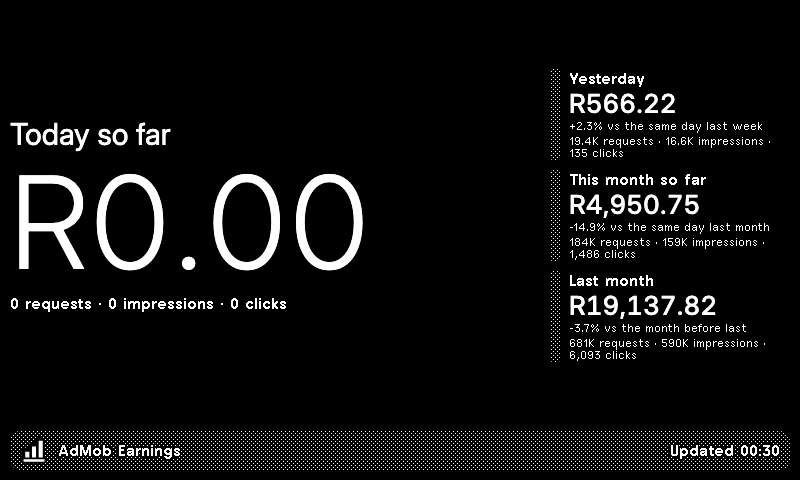
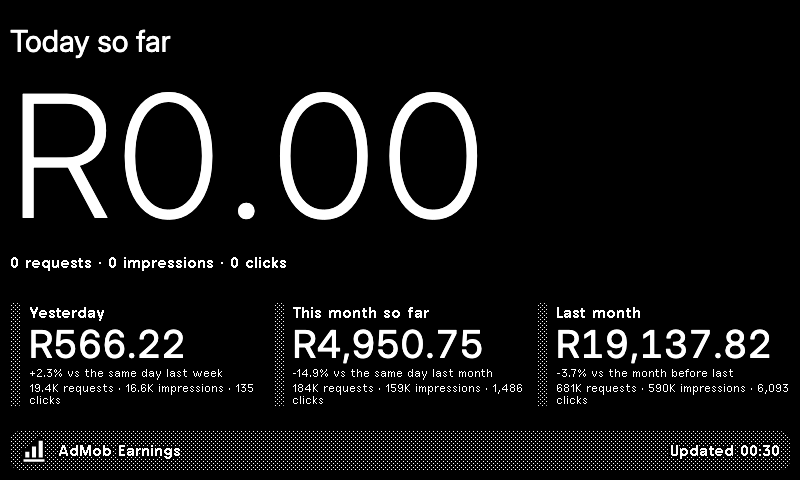
Put the AdMob primary figure across the top with three tiles beneath it
On the full view the large today figure now spans the screen with yesterday,
this month so far and last month in a row underneath, which suits the TRMNL X's
taller screen and gives the secondary tiles room for their metrics. Also record
that AdMob rejects an accounts/- wildcard, so the account picker stays.

diff --git a/apps/admob-earnings/test/transform.test.js b/apps/admob-earnings/test/transform.test.js
@@ -197,6 +197,8 @@ test('maps API errors and missing input to recovery states', () => {
   assert.equal(run({ error: { code: 500, status: 'INTERNAL' } }, at).status, 'error');
   assert.equal(run({ error: { code: 400, status: 'INVALID_ARGUMENT', message: "Invalid account information in request url: 'accounts/pub-1'" } }, at).status, 'access');
   assert.equal(run({ error: { code: 400, status: 'INVALID_ARGUMENT', message: 'Requested metrics and dimensions are incompatible.' } }, at).status, 'error');
+  // Recorded from the live API: there is no "-" wildcard for the caller's account.
+  assert.equal(run({ data: [{ error: { code: 400, message: 'Invalid parent name specified in request: accounts/-', status: 'INVALID_ARGUMENT' } }] }, at).status, 'access');
   // Streaming methods can report an error as an element of the array.
   assert.equal(run({ data: [{ error: { code: 401, status: 'UNAUTHENTICATED' } }] }, at).status, 'auth');
   assert.equal(run({}, at).status, 'error');
@@ -219,7 +221,7 @@ test('sizes the primary and secondary amounts from their widest values', () => {
     assert.match(small[group][view], /^value--\w+ portrait:value--\w+ lg:value--\w+ lg:portrait:value--\w+$/);
   }
   // A short today figure is fat; a seven-digit last month shrinks only the secondary tiles.
-  assert.equal(small.primary.full.split(' ')[0], 'value--xxxlarge');
+  assert.equal(small.primary.full.split(' ')[0], 'value--mega');
   assert.equal(small.primary.full.split(' ')[2], 'lg:value--giga');
   assert.equal(large.primary.full, run(report({ '2026-10-08': 3 }, { currency: 'JPY', start: '2026-07-07' }), at).amount_classes.primary.full);
   assert.notEqual(small.secondary.full, large.secondary.full);

diff --git a/apps/admob-earnings/src/transform.js b/apps/admob-earnings/src/transform.js
@@ -127,13 +127,13 @@ const VALUE_SIZES = [['xsmall', 20], ['small', 26], ['base', 38], ['large', 58],
 const PREFIXES = ['', 'portrait:', 'lg:', 'lg:portrait:'];
 const ROOM = {
   primary: {
-    full: { width: [500, 455, 660, 755], cap: [170, 170, 220, 220] },
+    full: { width: [770, 455, 1010, 755], cap: [170, 170, 220, 220] },
     half_horizontal: { width: [290, 435, 390, 735], cap: [128, 128, 170, 170] },
     half_vertical: { width: [380, 220, 500, 370], cap: [96, 128, 170, 170] },
     quadrant: { width: [380, 220, 500, 370], cap: [74, 96, 128, 128] },
   },
   secondary: {
-    full: { width: [210, 442, 285, 742], cap: [58, 74, 74, 96] },
+    full: { width: [228, 442, 305, 742], cap: [58, 74, 74, 96] },
     half_horizontal: { width: [126, 122, 174, 222], cap: [38, 38, 58, 58] },
     half_vertical: { width: [347, 187, 467, 337], cap: [38, 58, 58, 74] },
     quadrant: { width: [115, 85, 155, 190], cap: [26, 26, 38, 38] },

diff --git a/apps/admob-earnings/README.md b/apps/admob-earnings/README.md
@@ -34,7 +34,7 @@ pnpm build:admob          # dist/admob-earnings.zip for TRMNL's importer
 - **Request** (`src/settings.yml`): one `POST` to `accounts/{publisher_id}/networkReport:generate` with `Authorization: Bearer {{ oauth_access_token }}`. The Liquid body asks for daily `ESTIMATED_EARNINGS` over the last 93 days, ending one day after the UTC date, which always covers this month and the two full months before it in any time zone.
 - **Account picker**: `publisher_id` is an `xhrSelect` field whose `remote:` block calls `GET /v1/accounts` with the installer's token on TRMNL's servers, so the installer chooses from their own accounts.
 - **Transform** (`src/transform.js`): parses the header, row and footer elements; finds "today" in the account's reporting time zone (falling back to the TRMNL user's offset); sums the periods; formats money with currency symbols and whole-unit currencies such as JPY; writes the comparison text for the chosen style; and picks one value size per view from the widest amount, so tiles match and never overflow. Errors become a `status` of `setup`, `auth`, `access`, `no_data` or `error`, and every view explains what to do.
-- **Views** (`src/*.liquid`): framework classes only. One large primary figure (today so far) and three equal secondary tiles. Full puts the primary in two of three columns with the tiles stacked beside it (stacked below in portrait); half horizontal places the tiles in a row beside or below the primary; half vertical and the quadrant stack or row them beneath, the quadrant showing amounts only. Amounts in each group share one size, chosen by the transform from measured tile widths. Dark appearance follows Daily Bread's convention.
+- **Views** (`src/*.liquid`): framework classes only. One large primary figure (today so far) and three equal secondary tiles. Full puts the primary across the top with the three tiles in a row beneath it (stacked in portrait); half horizontal places the tiles in a row beside or below the primary; half vertical and the quadrant stack or row them beneath, the quadrant showing amounts only. Amounts in each group share one size, chosen by the transform from measured tile widths. Dark appearance follows Daily Bread's convention.
 
 ## TRMNL and GitHub Sync
 
@@ -48,7 +48,7 @@ Notes that used to live as comments in `settings.yml`:
 
 - One polling URL, so TRMNL hands the transform the report array as `data`. The publisher ID comes from the account picker, filled by AdMob's accounts list.
 - The body asks for 93 days, which always covers this month and the two full months before it. TRMNL renders Liquid in UTC, so the end date runs one day ahead for time zones east of UTC; AdMob accepts it and has no row for a date that has not started.
-- The account picker is optional because its list only loads after Google is connected, and TRMNL will not save the plugin, including its OAuth client, while a required field is empty.
+- AdMob has no wildcard for "the signed-in account" (`accounts/-` returns 400), so the picker is needed. It is optional because its list only loads after Google is connected, and TRMNL will not save the plugin, including its OAuth client, while a required field is empty.
 - The Google OAuth client ID and secret are entered in TRMNL and never committed.
 
 ## Fixtures

diff --git a/docs/admob-earnings.md b/docs/admob-earnings.md
@@ -19,7 +19,7 @@ Design changes made while building, which supersede the text below where they di
 - **No `render_key`.** Unchanged figures should not produce a new image; any change in the amounts changes the merge variables.
 - **The transform writes the comparison sentences and chooses value sizes.** It reads `comparison_style`, so the views need no Liquid partials (TRMNL's `{% template %}` tag does not exist in the local renderer). One size per view, picked from the widest amount and the measured tile widths, replaces the framework's per-element fit, which sized tiles inconsistently and let long values overflow.
 - **Narrower scope.** The recipe asks for `admob.report` (reports and account basics) instead of `admob.readonly`, which also covers inventory and mediation settings. The API discovery document lists both scopes for `accounts.list`, `accounts.get` and `networkReport.generate`.
-- **Primary and secondary layout (9 October 2026).** "Today so far" is one large primary figure; Yesterday, This month so far and Last month are equal secondary tiles with the comparison lines "vs the same day last week", "vs the same day last month" and "vs the month before last". Each tile adds ad requests, impressions and clicks (the request asks for `AD_REQUESTS`, `IMPRESSIONS` and `CLICKS`; AdMob has no page views). Dates are gone; the title bar shows the fetch time.
+- **Primary and secondary layout (9 October 2026).** "Today so far" is one large primary figure across the top of the full view, with Yesterday, This month so far and Last month as three equal secondary tiles in a row beneath it (stacked in portrait). They carry the comparison lines "vs the same day last week", "vs the same day last month" and "vs the month before last". Each tile adds ad requests, impressions and clicks (the request asks for `AD_REQUESTS`, `IMPRESSIONS` and `CLICKS`; AdMob has no page views). Dates are gone; the title bar shows the fetch time.
 - **"Today" uses the report's time zone.** The transform uses `Intl` with the header's `reportingTimeZone` when available, then the TRMNL user's offset, and a row dated later always wins.
 
 The rest of this document is the original plan, kept for its reasoning and references.
